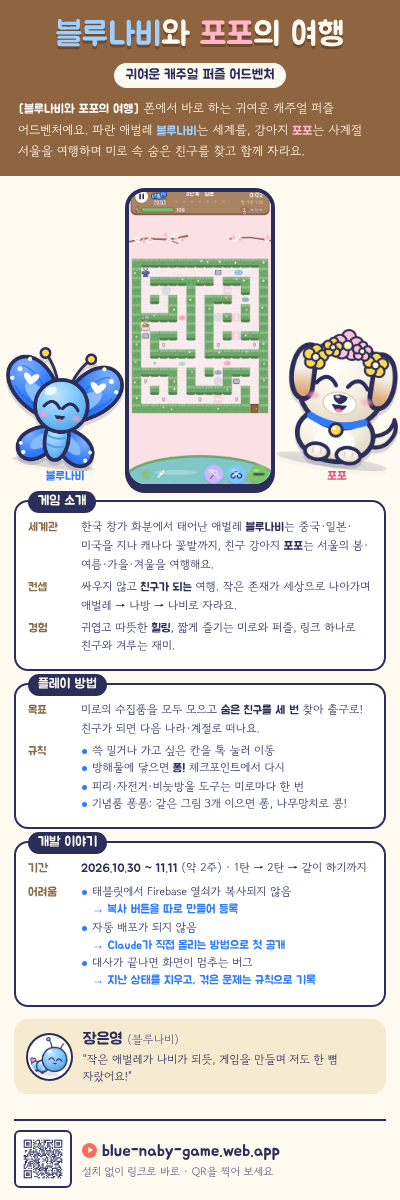
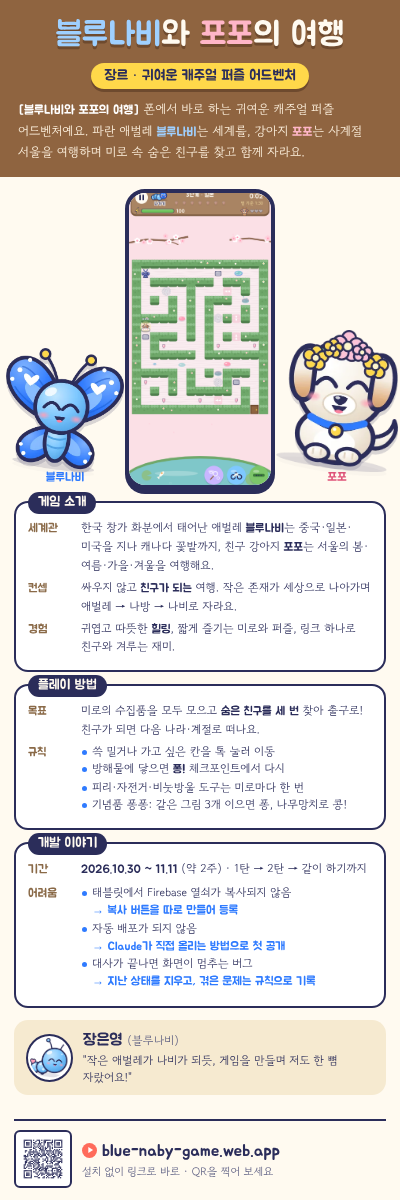
세로 배너: 노란 장르 배지 (리플렛과 같게)
Claude-Session: https://claude.ai/code/session_01TkNv9721uSkR9vMBe25YwV

diff --git a/docs/presentation/banner/banner.html b/docs/presentation/banner/banner.html
@@ -11,7 +11,7 @@ body{background:var(--cream);color:var(--ink);font-family:Gowun;word-break:keep-
 .top{background:var(--wood);color:var(--cream);padding:18px 18px 16px;text-align:center}
 h1{font-family:Jua;font-weight:normal;font-size:33px;line-height:1.1;text-shadow:0 3px 0 #6e4a2e}
 h1 b{font-weight:normal;color:#9fd0ff}h1 i{font-style:normal;color:#ffb6c8}
-.genre{display:inline-block;margin-top:9px;font-family:Jua;font-size:14px;background:var(--cream);color:var(--ink);padding:3px 12px 4px;border-radius:99px}
+.genre{display:inline-block;margin-top:9px;font-family:Jua;font-size:14.5px;background:#ffd84a;color:var(--ink);padding:3px 13px 4px;border-radius:99px;box-shadow:0 3px 0 #6e4a2e}
 .lead{margin-top:10px;font-size:12.5px;line-height:1.55;color:#fff3e0;text-align:left}
 .lead b{font-family:Jua;font-weight:normal;color:#fff}
 .lead .bn{color:#9fd0ff}.lead .pp{color:#ffb6c8}
@@ -52,7 +52,7 @@ li:before{content:'';position:absolute;left:1px;top:7px;width:5px;height:5px;bor
 <!-- 1) 타이틀 -->
 <div class="top">
   <h1><b>블루나비</b>와 <i>포포</i>의 여행</h1>
-  <div class="genre">귀여운 캐주얼 퍼즐 어드벤처</div>
+  <div class="genre">장르 · 귀여운 캐주얼 퍼즐 어드벤처</div>
   <p class="lead"><b>[블루나비와 포포의 여행]</b> 폰에서 바로 하는 귀여운 캐주얼 퍼즐 어드벤처예요. 파란 애벌레 <b class="bn">블루나비</b>는 세계를, 강아지 <b class="pp">포포</b>는 사계절 서울을 여행하며 미로 속 숨은 친구를 찾고 함께 자라요.</p>
 </div>
 

diff --git a/CLAUDE.md b/CLAUDE.md
@@ -227,6 +227,7 @@
 | 2026-11-06 | 처음 화면을 **펼친 세계지도 안의 지구본 모형** 입구로, 1탄·2탄을 터치해서 들어가게 | 기획안 `docs/design-brief.md` 16절(새 Entry 씬, 지구본 위 1탄 나비 핀·2탄 발바닥 핀 + 이름표 카드, 톡 → 확대 → 타이틀, 타이틀엔 [◀ 지구본]) |
 | 2026-11-06 | 친구를 따로 대결로 사귀지 말고 **미로 안에서 놀고 마지막 출구에서 친구가 되게** | 답: 숨바꼭질 친구(세 번 찾기, 하트 3칸) / 1탄·2탄 모두. 턴제 대결 화면은 이야기에서 빠짐. 기획안 `docs/design-brief.md` 17절 |
 | 2026-11-10 | 지구본에서 들어가는 화면을 **「블루나비와 포포의 여행」에 어울리게**, 퐁퐁·여행 게임을 **2~3명이 같이** 하게 **합쳐** | 답: 타이틀 한 화면으로 합치기 / [같이 하기] 한 버튼(인원·놀이를 안에서, 혼자 퐁퐁도) / 3명 = 각자 폰 대결 링크. 기획안 `docs/design-brief.md` 19절, 시안 `docs/presentation/brief19-mock.png` |
+| 2026-11-11 | **배너도 장르 넣어서** | `banner.png`·`banner@2x.png`: 제목 아래 배지를 리플렛과 같은 노란 "장르 · 귀여운 캐주얼 퍼즐 어드벤처"로 |
 | 2026-11-11 | **리플렛도 장르 넣어서** | `leaflet.pdf`·`.png`: 제목 띠 1탄·2탄 칩 아래 노란 배지 "장르 · 귀여운 캐주얼 퍼즐 어드벤처"(정보 칸 장르는 그대로), 큰 그림 높이 조금 줄여 A4 한 장 유지 |
 | 2026-11-11 | **발표 스크립트 PDF도 수정** (장르 넣어서) | `script-50s`(PDF·html·md): 2구간 "설치 없이 폰에서 바로 하는 귀여운 캐주얼 퍼즐 어드벤처예요. 블루나비와 포포를 톡! 여행을 시작해봐요.", 머리 안내에 "장르 귀여운 캐주얼 퍼즐 어드벤처", 한글 약 205자·A4 1쪽 |
 | 2026-11-11 | **세로 배너 400×1200**: 타이틀(게임명·한줄소개·장르)·메인 이미지(대표 화면+캐릭터)·게임 소개(세계관·컨셉·경험)·플레이 방법(목표·규칙)·개발 이야기(기간·어려움·해결)·개발자 소개(이름·한줄소감) | `docs/presentation/banner/banner.png`(400×1200)·`banner@2x.png`(800×2400), 원본 `banner.html`. 개발 기간 2026.10.30~11.11, 어려움 = 태블릿 Firebase 열쇠 복사·자동 배포 실패·대사 멈춤 버그(발표 각본 `script.pdf`에서). 한줄소감 "작은 애벌레가 나비가 되듯, 게임을 만들며 저도 한 뼘 자랐어요!"(Claude 초안, 사용자가 그대로 두기로 함). 칸 제목 번호는 뺌 |
